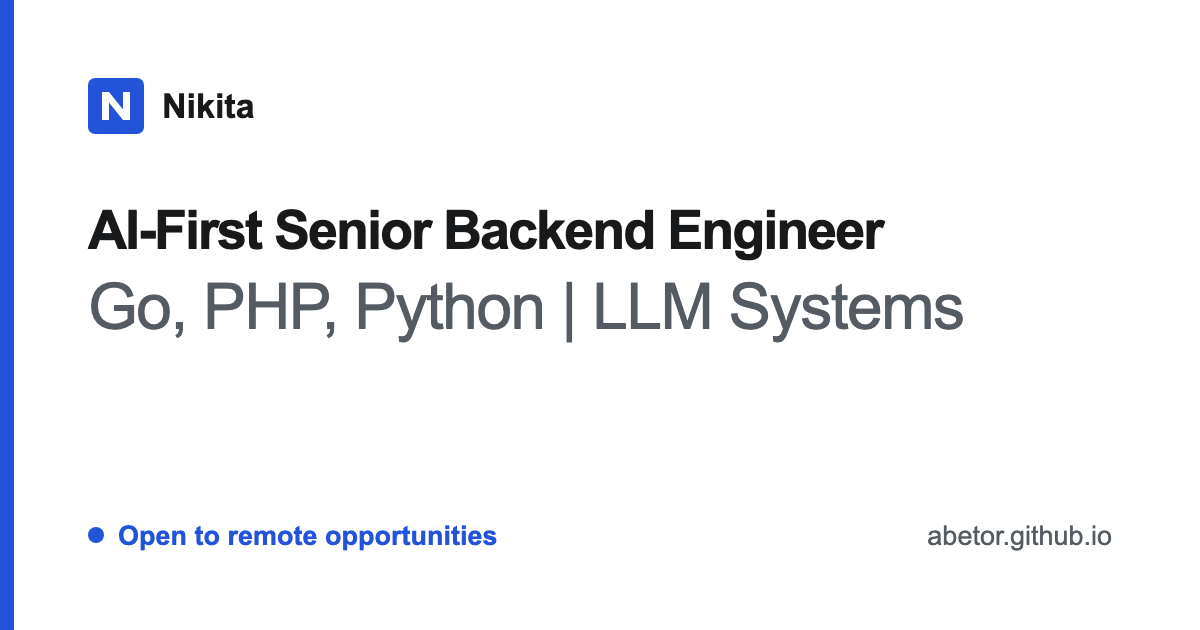
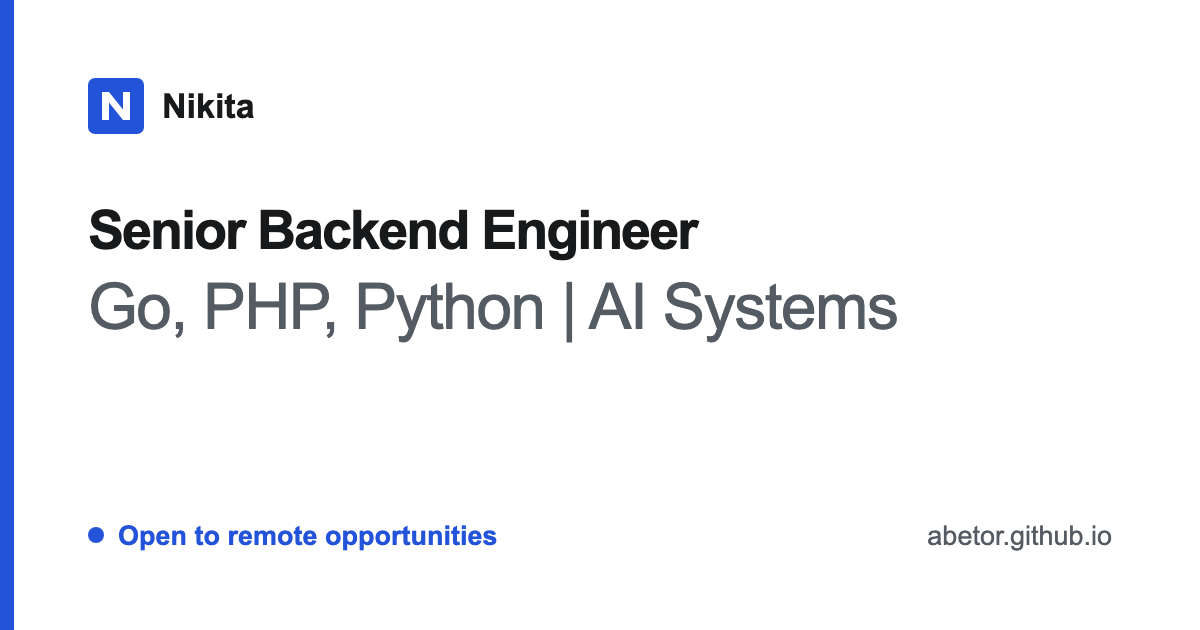
Describe engineering ownership and system design

Changed region(s): [[0.0617, 0.3317, 0.74, 0.4222], [0.4933, 0.4222, 0.8017, 0.5429]]

diff --git a/index.html b/index.html
@@ -4,18 +4,18 @@
   <meta charset="utf-8">
   <meta name="viewport" content="width=device-width, initial-scale=1">
   <meta name="robots" content="noindex, nofollow, noarchive">
-  <title>Nikita - AI-First Senior Backend Engineer</title>
+  <title>Nikita - Senior Backend Engineer</title>
   <meta name="description" content="Senior backend engineer independently building complete AI systems: distributed jobs, moderation, agentic websites and a publicly launched SEO content product.">
   <link rel="canonical" href="https://abetor.github.io/">
-  <meta property="og:title" content="Nikita - AI-First Senior Backend Engineer">
+  <meta property="og:title" content="Nikita - Senior Backend Engineer">
   <meta property="og:type" content="website">
   <meta property="og:url" content="https://abetor.github.io/">
   <meta property="og:description" content="Corporate SaaS since 2019. Independently built AI job processing, moderation, agentic website generation and a publicly launched SEO content product.">
-  <meta property="og:image" content="https://abetor.github.io/og.png?v=20261029-aifirst">
+  <meta property="og:image" content="https://abetor.github.io/og.png?v=20261110-systems">
   <meta property="og:image:type" content="image/png">
   <meta property="og:image:width" content="1200">
   <meta property="og:image:height" content="630">
-  <meta property="og:image:alt" content="Preview card for Nikita, AI-First Senior Backend Engineer.">
+  <meta property="og:image:alt" content="Preview card for Nikita, Senior Backend Engineer.">
   <meta name="twitter:card" content="summary_large_image">
   <meta name="color-scheme" content="light">
   <link rel="icon" href="favicon.ico?v=20261007-swiss" sizes="32x32">
@@ -28,7 +28,7 @@
     "@type": "ProfilePage",
     "@id": "https://abetor.github.io/#profile-page",
     "url": "https://abetor.github.io/",
-    "dateModified": "2026-11-03",
+    "dateModified": "2026-11-10",
     "mainEntity": {
       "@type": "Person",
       "@id": "https://abetor.github.io/#person",
@@ -47,11 +47,11 @@
   <div class="page">
     <header class="hero">
       <p class="identity">Nikita</p>
-      <h1>AI-First Senior Backend Engineer <span class="h1-stack">Go, PHP, Python | LLM Systems</span></h1>
-      <p class="intro">Senior backend engineer building corporate SaaS since 2019. I independently design and build complete AI systems, from distributed job processing and moderation to agentic website generation. I use Claude Code and Codex for implementation, owning architecture, specifications, review and delivery.</p>
+      <h1>Senior Backend Engineer <span class="h1-stack">Go, PHP, Python | AI Systems</span></h1>
+      <p class="intro">Backend engineer in corporate SaaS since 2019. I design and build distributed services and AI products, with responsibility for data models, execution, resource controls, recovery and delivery.</p>
       <ul class="proof-list">
-        <li>AI systems built end to end: distributed job execution, content moderation and multi-page website generation.</li>
-        <li>Public AI launch: an SEO content product spanning analysis, planning, generation, HTML assembly and editing.</li>
+        <li>Designed distributed execution and moderation systems, including their load-testing environments, telemetry and recovery mechanisms.</li>
+        <li>Independently built and publicly launched an SEO product with generation, editing, integrations and model cost controls.</li>
       </ul>
       <p class="availability">Open to remote opportunities.</p>
       <p class="actions"><a class="primary-link" href="mailto:nikita.abetor@gmail.com?subject=Backend%20opportunity">Get in touch</a> <a href="mailto:nikita.abetor@gmail.com">nikita.abetor@gmail.com</a> <a href="https://t.me/nikita_abetor">Telegram</a> <a href="https://github.com/abetor">GitHub</a> <a href="#work">Selected work</a></p>
@@ -66,26 +66,26 @@
             <p><strong>Senior Backend Engineer, AI R&amp;D</strong><br>Dec 2025 - Present</p>
             <div id="work" class="case-list">
               <article>
-                <h3>High-throughput AI moderation<span class="status">Python, PostgreSQL, Kafka</span></h3>
-                <p>Independently designed and built a content moderation system with Kafka/API intake, rule-based and LLM-backed decisions, versioned policies, incidents and human moderation workflows. Brought it to staging.</p>
-                <p><strong>Load testing and orchestration:</strong> built a load-testing lab with custom producers and consumers and telemetry across processing stages; implemented shared LLM capacity control, priorities and deadlines.</p>
-                <p><strong>Evaluation and QA:</strong> built policy and prompt evals, automated contract checks and CI across backend, browser workflows and observability.</p>
+                <h3>Text moderation platform<span class="status">Python, PostgreSQL, Kafka</span></h3>
+                <p>Designed and built the platform from event intake to moderation decisions and human review. Unified Kafka and API processing, versioned moderation policies, and controlled shared LLM capacity through priorities, deadlines and concurrency limits.</p>
+                <p><strong>Load testing and orchestration:</strong> built load-generation and processing telemetry; tested 400 incoming events/s with simulated LLM responses. In a separate test at 100 events/s, verified recovery after a six-minute database outage without restarting the application.</p>
+                <p><strong>Evaluation and release checks:</strong> built policy and prompt evals, automated contract checks and CI across backend, browser workflows and observability.</p>
                 <p><strong>Controlled delivery:</strong> built separate delivery tooling with immutable artifacts and provenance checks; verified interrupted-update recovery and data preservation on disposable environments.</p>
               </article>
               <article>
                 <h3>SEO content generation<span class="status">Python, FastAPI, PostgreSQL</span></h3>
                 <p>Independently designed, built and publicly launched an AI product that takes SEO content from competitor-page analysis and planning through generation with evaluation feedback, HTML-template assembly and editing.</p>
-                <p><strong>Usage metering and S2S integration:</strong> per-task LLM cost accounting, user and API-key quotas, and integration with external products through mapped user identities.</p>
+                <p><strong>Cost controls and integrations:</strong> per-task LLM cost accounting, user and API-key quotas, and integration with external products through mapped user identities.</p>
               </article>
             </div>
             <p>Prepared documentation and delivered talks on the full development cycle with coding agents.</p>
           </div>
           <div class="period">
             <p><strong>Backend Engineer</strong><br>Mar 2019 - Dec 2025</p>
-            <p>Developed corporate SaaS products, then a messenger backend for SaaS and on-premise deployments using PHP, Go, MySQL, RabbitMQ and Memcached. Progressed from intern to senior engineer.</p>
+            <p>Developed corporate SaaS products, then a messenger backend for SaaS and on-premises deployments using PHP, Go, MySQL, RabbitMQ and Memcached. Progressed from intern to senior engineer.</p>
             <ul>
               <li><strong>Event processing and observability:</strong> a Go service for activity analytics and log/metric collection for PHP and Go services.</li>
-              <li><strong>Data migration:</strong> migrated Slack history while preserving message timestamps and relationships between entities.</li>
+              <li><strong>Data migration:</strong> owned the complete migration from Slack into the messenger, mapping users, messages, files and threads while preserving timestamps and relationships.</li>
             </ul>
           </div>
         </div>
@@ -95,12 +95,12 @@
         <h2 id="other-systems-heading">Other engineering systems</h2>
         <div class="section-body case-list">
           <article>
-            <h3>Distributed AI job platform<span class="status">Go, PostgreSQL, NATS JetStream | Pre-production</span></h3>
-            <p>Independently designed and built a platform for long-running AI jobs: APIs, durable execution state, workers, outbox-based events and deduplication, limits and quotas, failure recovery and observability.</p>
-            <p>Built integration environments and automated checks.</p>
+            <h3>Distributed AI job platform<span class="status">Go, PostgreSQL, NATS JetStream</span></h3>
+            <p>Designed and built a platform for long-running AI workloads. Separated job intake, durable execution state and workers; used transactional event delivery and deduplication to handle retries, with shared quotas, capacity limits and failure recovery.</p>
+            <p>Designed usage accounting alongside execution controls and built integration environments and telemetry to verify concurrent processing and recovery across service instances.</p>
           </article>
           <article>
-            <h3>Agentic multi-page website pipeline<span class="status">Python, coding agents | Internal alpha</span></h3>
+            <h3>Agentic multi-page website pipeline<span class="status">Python, coding agents</span></h3>
             <p>Built and tested the full path from a source website to a new multi-page site repository: crawling, fact extraction with provenance, coding-agent generation, builds, content and link checks, screenshots and review.</p>
             <p>Durable run state and Git checkpoints allow interrupted workflows to resume.</p>
           </article>
@@ -113,7 +113,7 @@
           <p><strong>Backend architecture:</strong> Service boundaries, API contracts and asynchronous processing.</p>
           <p><strong>Data consistency and resilience:</strong> Transactions, idempotency and recovery after failures.</p>
           <p><strong>LLM systems:</strong> Provider integration, context management, rate limits and concurrency control.</p>
-          <p><strong>AI-first development:</strong> Specifications, context design, task decomposition, coding-agent orchestration and independent review.</p>
+          <p><strong>Development with coding agents:</strong> Specifications, context design, task decomposition, coding-agent orchestration and independent review.</p>
           <p><strong>Stack:</strong> Go, PHP, Python, SQL; FastAPI; PostgreSQL, MySQL, Kafka, NATS JetStream, RabbitMQ, Memcached; Docker.</p>
           <p>English: B2</p>
         </div>
